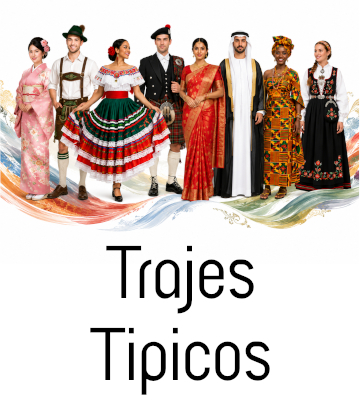
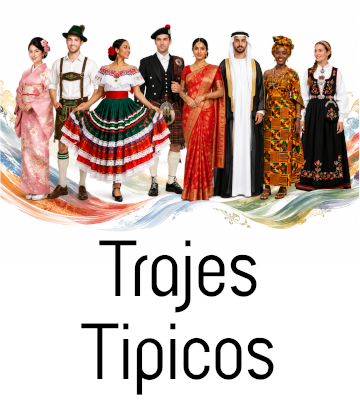
Add files via upload

Changed region(s): [[0.2139, 0.81, 0.7639, 0.99], [0.275, 0.6, 0.7333, 0.78]]

diff --git a/style.css b/style.css
@@ -46,7 +46,7 @@ align-items: center; /* Vertical centering */
       box-sizing: border-box;
       align-items: center;
         align-content: center;  
-        max-width: 640px; 
+        max-width: 720px; 
     }
   /* Header */
     .header {
@@ -91,19 +91,9 @@ align-items: center; /* Vertical centering */
 
     .art-frame {
       width: 100%;
-      height: 50vh;
-       --s: 100px; /* control the size*/
-  --c1: #ffffff;
-  --c2: aliceblue;
-  
-  --_g: #0000 8%,var(--c1) 0 17%,#0000 0 58%;
-  background: 
-    linear-gradient(135deg,#0000 20.5%,var(--c1) 0 29.5%,#0000 0) 0 calc(var(--s)/4),
-    linear-gradient( 45deg,var(--_g)) calc(var(--s)/2) 0,
-    linear-gradient(135deg,var(--_g),var(--c1) 0 67%,#0000 0),        
-    linear-gradient( 45deg,var(--_g),var(--c1) 0 67%,#0000 0 83%,var(--c1) 0 92%,#0000 0),
-    var(--c2); 
-  background-size: var(--s) var(--s);
+      height: 44vh;
+     
+  background: white;
         border-radius: 20px;
       overflow: hidden;
       display: flex;
@@ -135,7 +125,7 @@ align-items: center; /* Vertical centering */
     grid-auto-flow: column;
     }
     .thumbnail {
-      height: 10vh;
+      height: 13vh;
         max-width: 90px;
       display: inline-block;
         object-fit: contain;
@@ -424,11 +414,11 @@ align-items: center; /* Vertical centering */
     }
 
 .grid {
-      width: 92vw;
-      max-width: 600px;
+      width: 90vw;
+      max-width: 680px;
       display: grid;
       grid-template-columns: repeat(5, 1fr);
-      gap: 3px;
+      gap: 4px;
     }
 
  .card {

diff --git a/script.js b/script.js
@@ -28,10 +28,10 @@ function loadArtwork(art) {
 aboutBtn.addEventListener("click", () => {
   viewer.innerHTML = `
     <div class="info-screen">
-      <img src="geo.png" >
-      <h2>Geometria</h2>
+      <h1>📏 📐 📏 📐</h1>
+      <h2>Figuras Geometricas 3D</h2>
 
-      <p>Voltea las cartas de las Figuras Geometricas y emparejalas con las cartas de sus nombres.</p>
+      <p>Voltea las cartas de las Figuras Geometricas 3D y emparejalas con las cartas de sus nombres.</p>
 
 <p>🏅 Excelente: 10-15 Intentos<br> 👍 Normal: 16-25 Intentos<br> ❌ Reprobado: 26 o mas Intentos</p>
 <p><br><a class="playbtn" href="index_31.html">Jugar</a>
@@ -44,9 +44,9 @@ aboutBtn.addEventListener("click", () => {
 puzzleBtn.addEventListener("click", () => {
   viewer.innerHTML = `
     <div class="info-screen">
-	<img src="rom.png" >
-   
-      <h3>Rompecabezas:</h3>
+	
+    <h1>🧩 🧩 🧩 🧩</h1>
+      <h2>Rompecabezas</h2>
       
       <p>INSTRUCCIONES: Haz clic en las piezas alrededor de la pieza vacía para moverlas y completar el rompecabezas.</p>
 	  <p>🏅 Excelente: 0-50 Intentos<br> 👍 Normal: 51-99 Intentos<br> ❌ Reprobado: 100 o mas Intentos</p>
@@ -60,9 +60,9 @@ puzzleBtn.addEventListener("click", () => {
 musicBtn.addEventListener("click", () => {
   viewer.innerHTML = `
     <div class="info-screen">
-	<h1>🎷 🎸 🎺 🎻 🎹 🎼</h1>
+	<h1>🎷 🎸 🎺 🎻 🎹 🥁</h1>
    
-      <h3>Instrumentos Musicales:</h3>
+      <h2>Instrumentos Musicales</h2>
       
       <p>Voltea las cartas de los Instrumentos Musicales y emparejalas con las cartas de sus nombres..</p>
 	  <p>🏅 Excelente: 10-15 Intentos<br> 👍 Normal: 16-25 Intentos<br> ❌ Reprobado: 26 o mas Intentos</p>